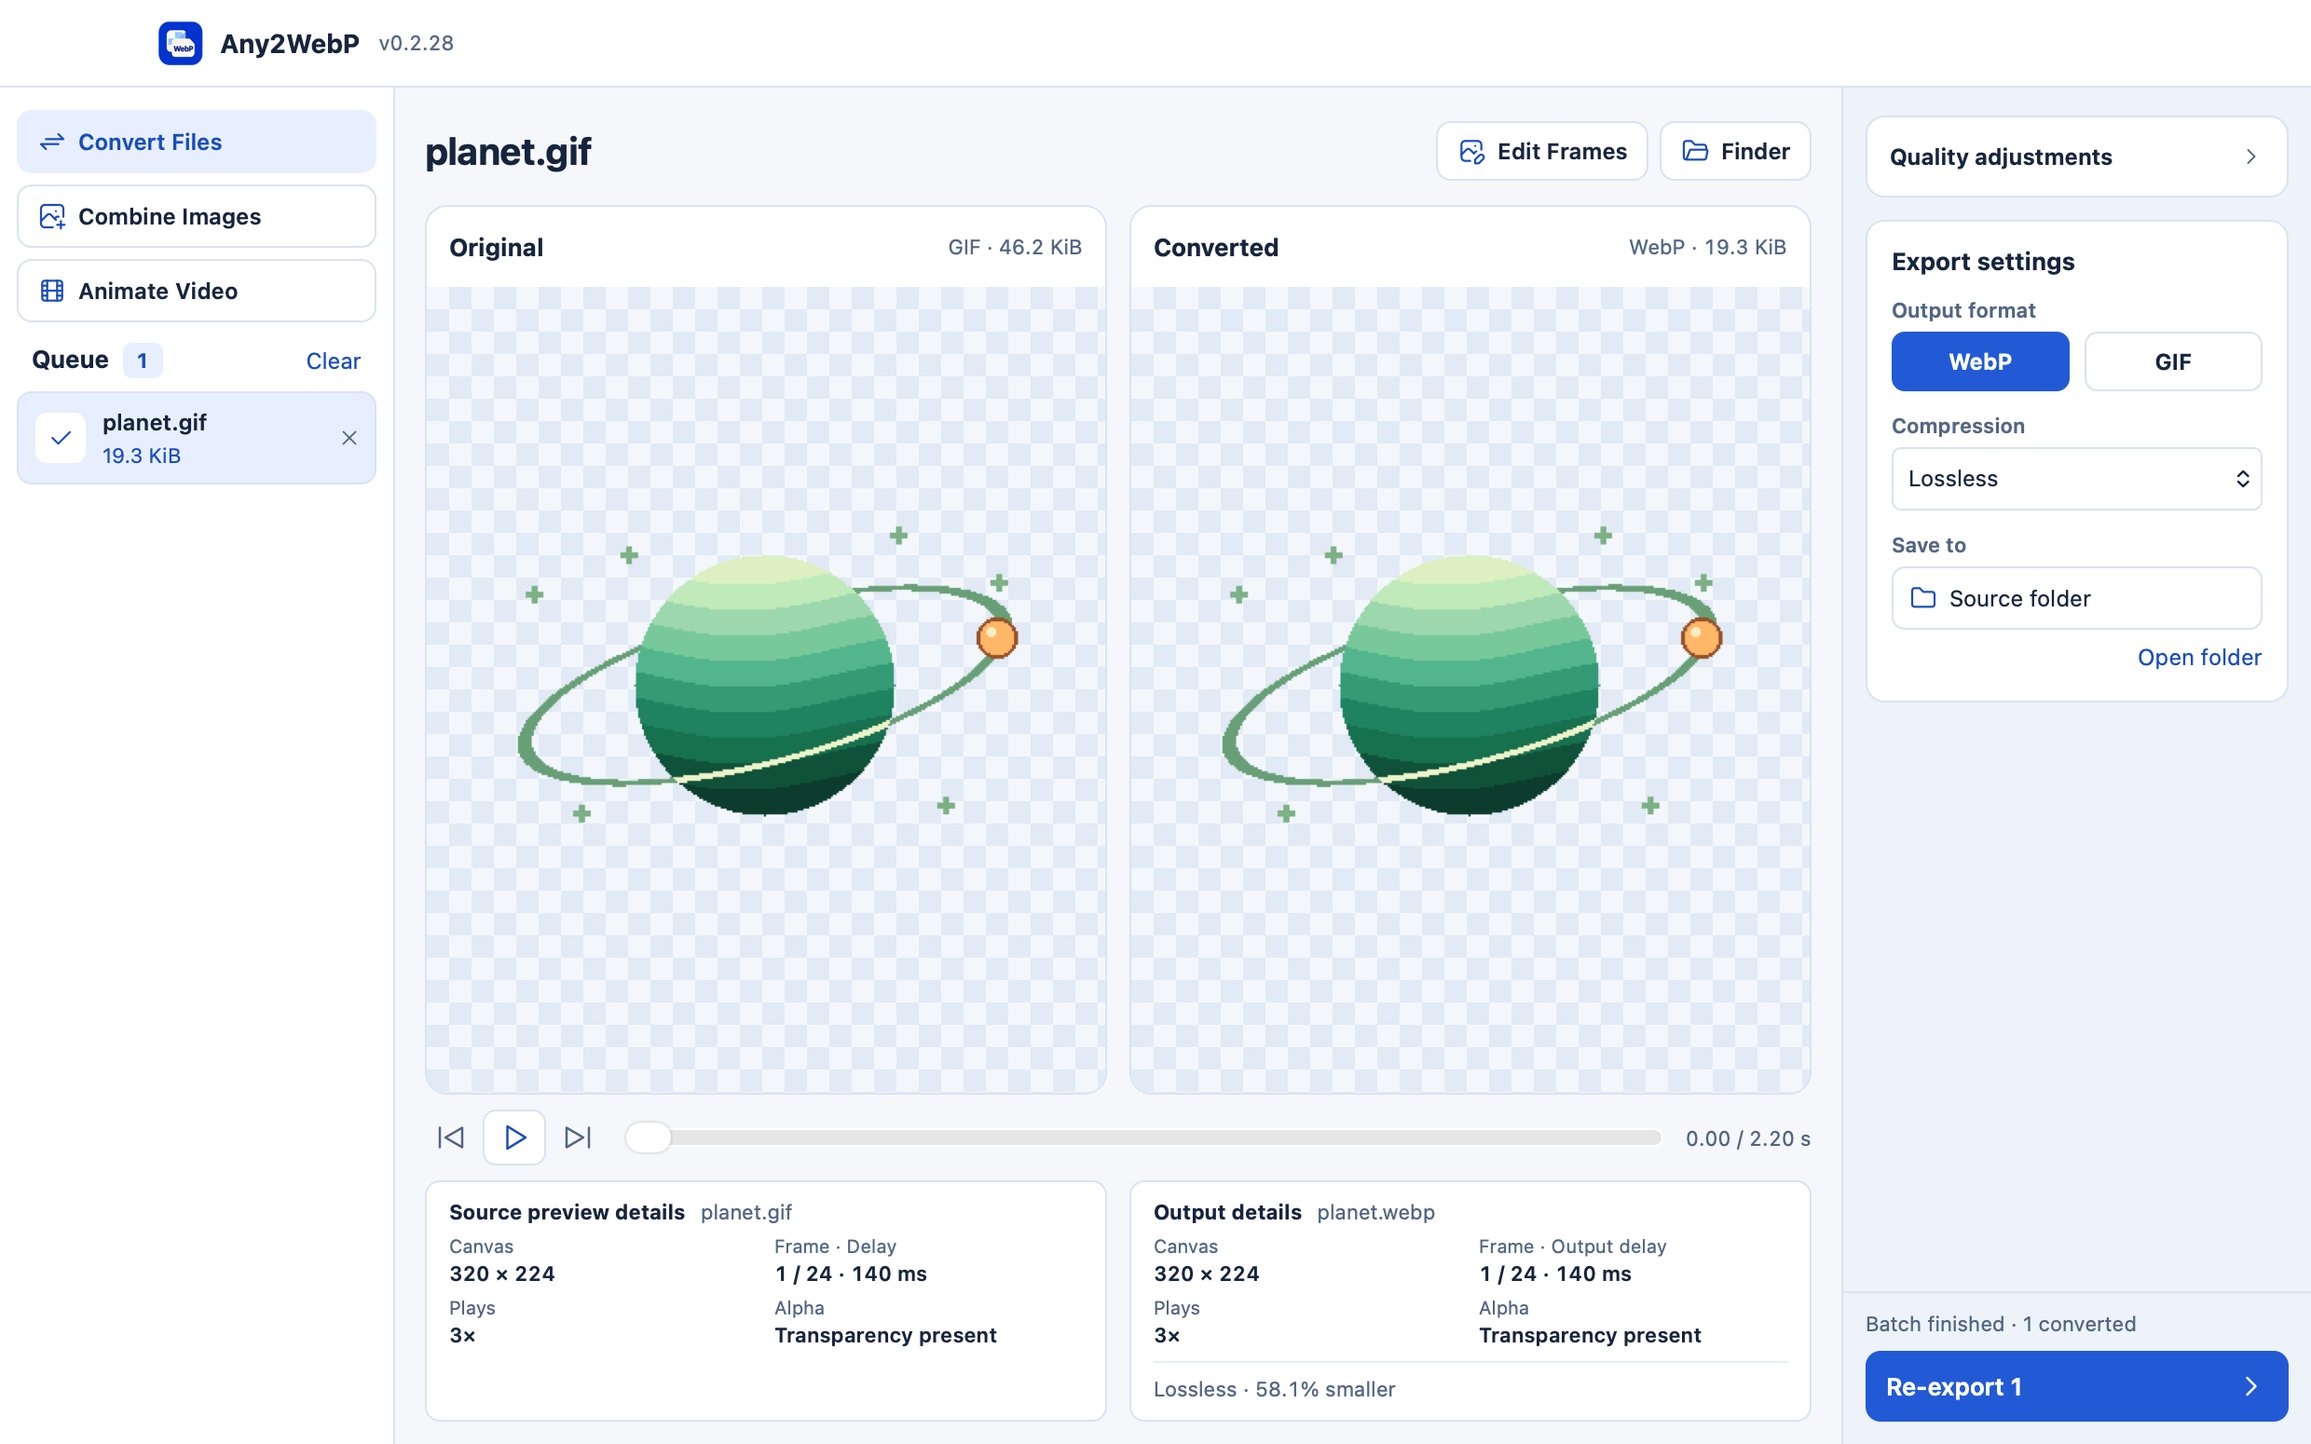
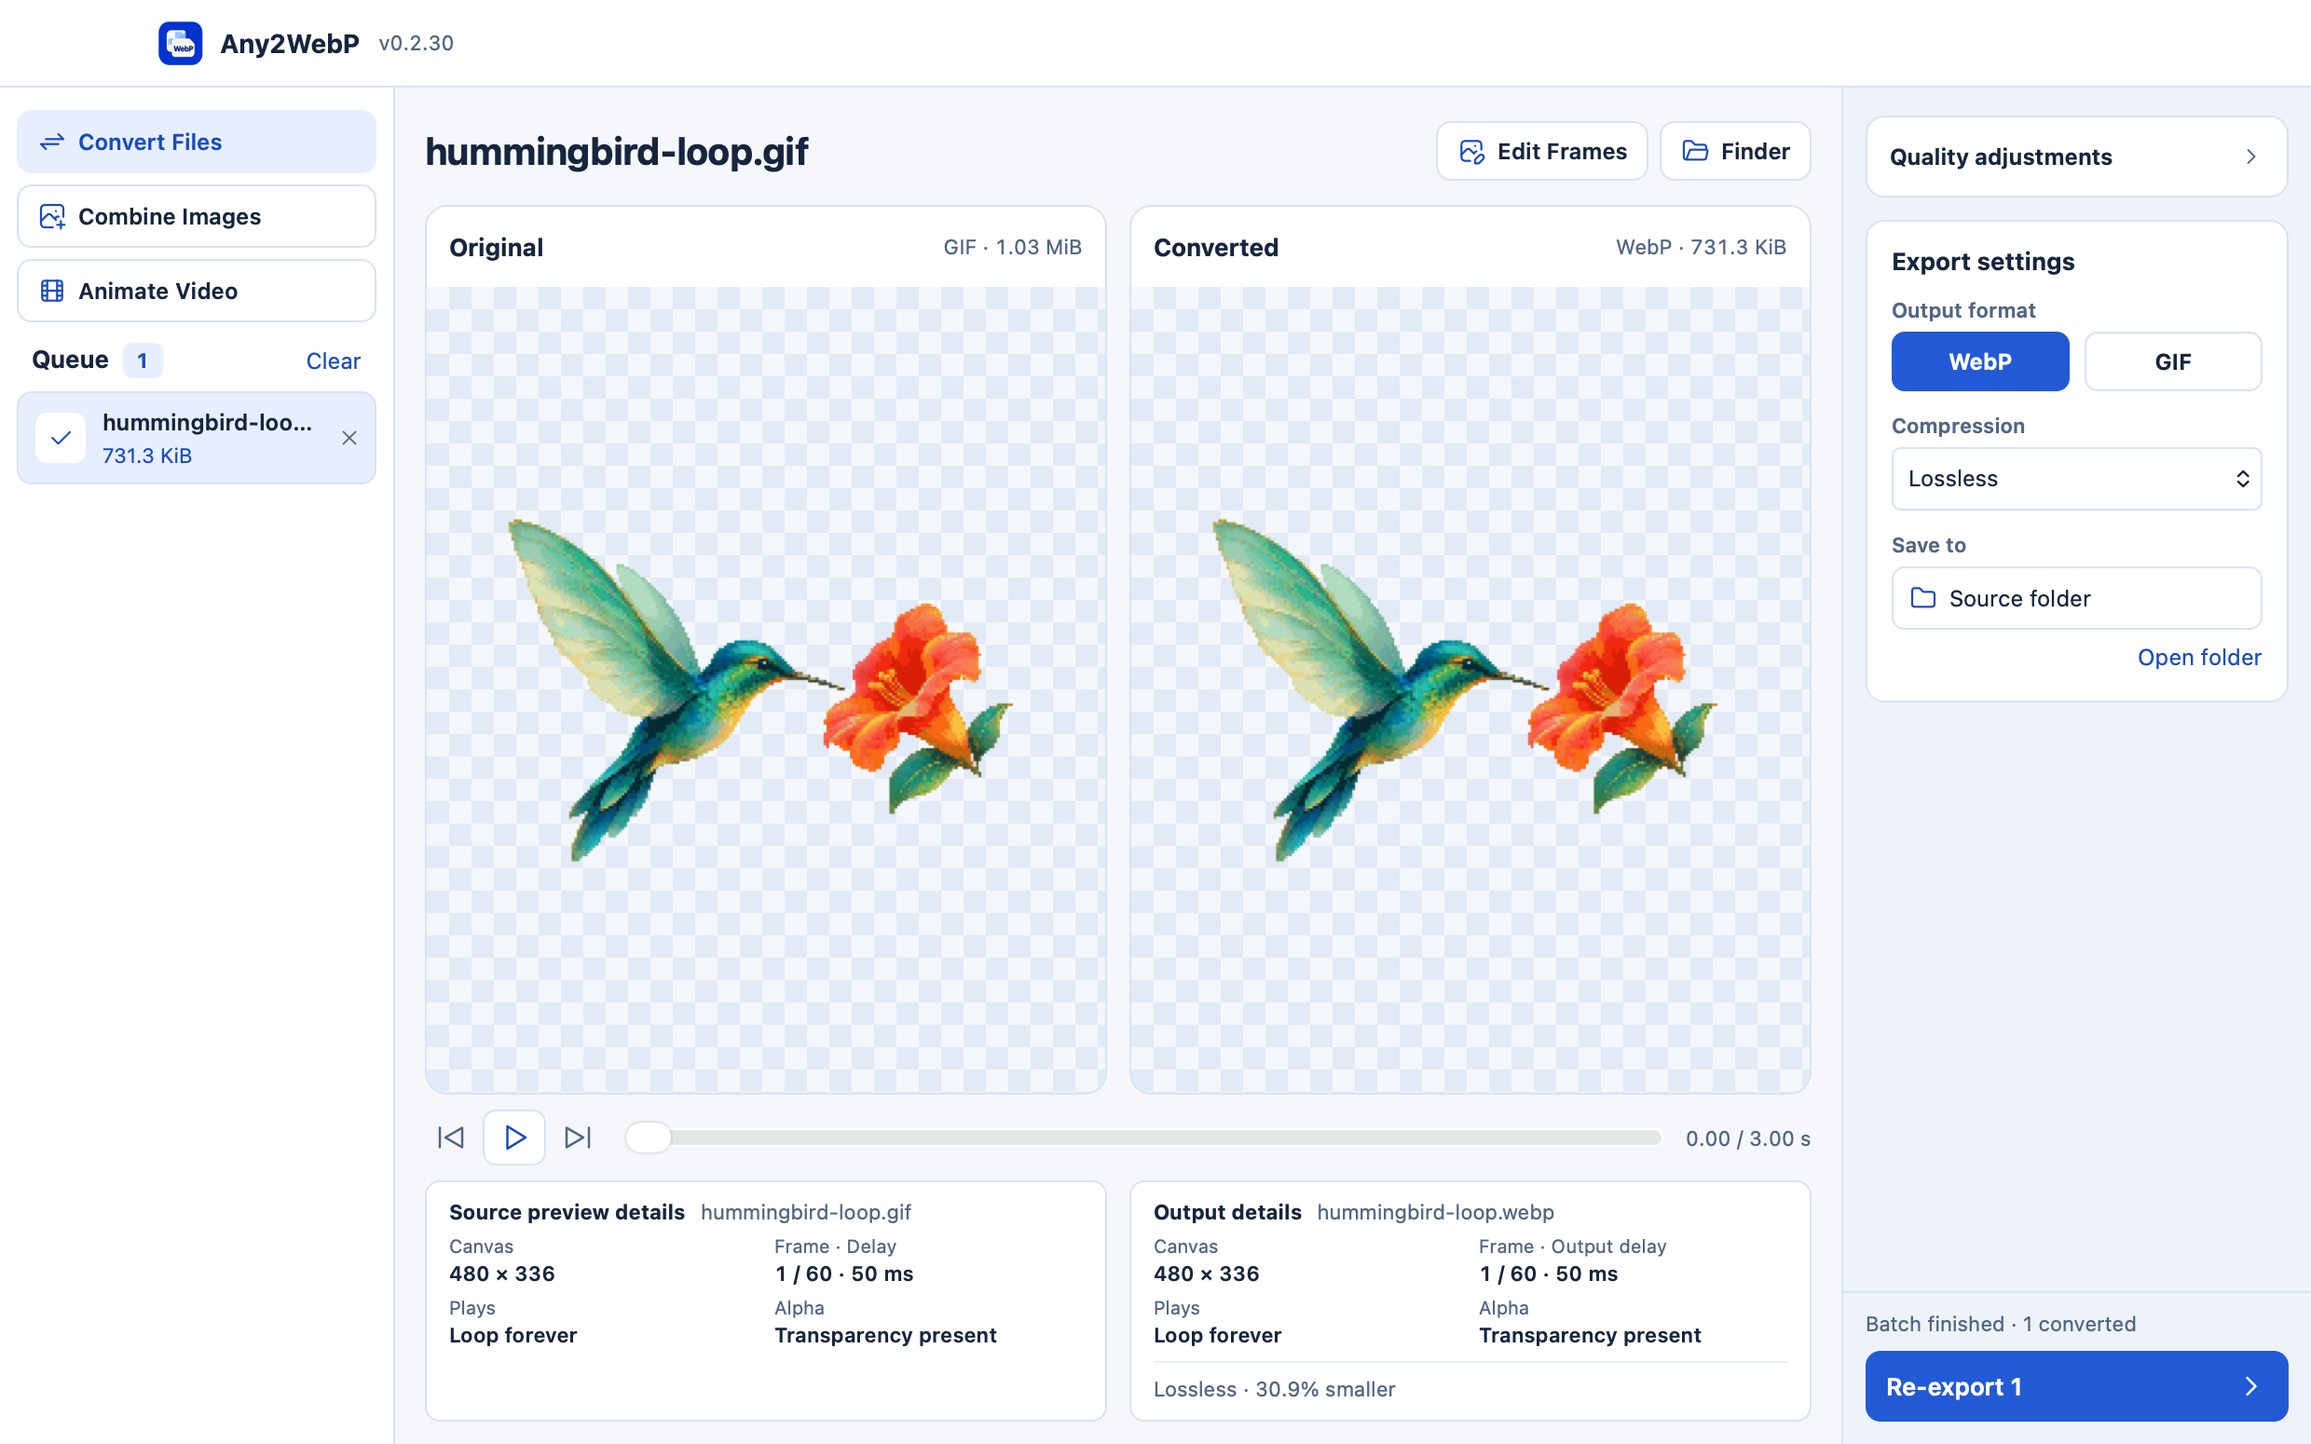
Compare hummingbird GIF and WebP in the public demo (#5)
* Compare hummingbird GIF and WebP on the website and README

* Refresh the three app screenshots with the hummingbird demo

* Use the exact screenshot export for the hummingbird comparison

---------

diff --git a/website/style.css b/website/style.css
@@ -54,6 +54,7 @@ h1 span { display: block; margin-top: 3px; color: var(--accent); }
 .source { font-size: .95rem; font-weight: 620; text-underline-offset: 4px; text-decoration: none; }
 .requirements { margin-top: 13px; color: var(--muted); font-size: .88rem; }
 .hero-image img { border: 1px solid #bfcee8; border-radius: 15px; box-shadow: 0 18px 42px #293d6826; }
+.hero-image figcaption { display: block; padding: 8px 2px 0; color: var(--muted); font-size: .8rem; }
 
 .section { padding-top: 65px; }
 .section > h2, .install h2 { font-size: clamp(1.65rem, 3vw, 2.25rem); letter-spacing: -.035em; }
@@ -76,16 +77,20 @@ h1 span { display: block; margin-top: 3px; color: var(--accent); }
   background-image: conic-gradient(#e2eaf8 25%, transparent 0 50%, #e2eaf8 0 75%, transparent 0);
   background-size: 20px 20px;
 }
-.demo-image img { width: min(100%, 170px); }
+.demo-image img { width: 100%; }
 figcaption { display: flex; flex-wrap: wrap; align-items: center; justify-content: space-between; gap: 3px 10px; padding: 7px 10px; }
-figcaption span, .format-card .demo-note { font-size: .875rem; }
+figcaption a { font-weight: 700; text-underline-offset: 3px; }
+figcaption span, .format-card .demo-note, .format-card .demo-status { font-size: .875rem; }
 figcaption span { white-space: nowrap; color: var(--muted); }
 .format-card .demo-note { margin-top: 12px; }
+.demo-note strong { color: var(--accent); }
+.format-card .demo-status:empty { margin-top: 0; }
 .demo-play {
   margin-top: 12px; padding: 7px 11px; border: 1px solid #c6d5f0; border-radius: 7px;
   color: var(--accent); background: white; font: inherit; font-size: .93rem; font-weight: 650; cursor: pointer;
 }
-.demo-play:hover { background: #e8efff; }
+.demo-play:hover:not(:disabled) { background: #e8efff; }
+.demo-play:disabled { cursor: wait; opacity: .75; }
 .still-row { display: grid; grid-template-columns: 56px minmax(0, 1fr); gap: 16px; padding: 16px 0; border-bottom: 1px solid var(--line); }
 .still-row dt { font-weight: 740; color: var(--accent); }
 .still-row dd span { display: block; margin-top: 3px; color: var(--muted); }

diff --git a/website/demo.js b/website/demo.js
@@ -1,13 +1,41 @@
 const button = document.querySelector(".demo-play");
 const images = [...document.querySelectorAll("[data-motion]")];
-const poses = images.map(image => image.getAttribute("src"));
+const posters = images.map(image => image.getAttribute("src"));
+const status = document.querySelector(".demo-status");
+let downloads;
+let playingUrls = [];
 
 button.hidden = false;
-button.addEventListener("click", () => {
-  const playing = button.getAttribute("aria-pressed") === "false";
-  images.forEach((image, index) => {
-    image.src = playing ? image.dataset.motion : poses[index];
-  });
-  button.setAttribute("aria-pressed", String(playing));
-  button.textContent = playing ? button.dataset.stop : button.dataset.play;
+button.addEventListener("click", async () => {
+  if (playingUrls.length) {
+    images.forEach((image, index) => { image.src = posters[index]; });
+    playingUrls.forEach(url => URL.revokeObjectURL(url));
+    playingUrls = [];
+    button.setAttribute("aria-pressed", "false");
+    button.textContent = button.dataset.play;
+    return;
+  }
+
+  status.textContent = "";
+  button.disabled = true;
+  button.textContent = button.dataset.loading;
+  try {
+    // Keep both posters visible until the two animations are ready to start.
+    downloads ??= Promise.all(images.map(async image => {
+      const response = await fetch(image.dataset.motion);
+      if (!response.ok) throw new Error("Animation download failed");
+      return response.blob();
+    }));
+    const blobs = await downloads;
+    playingUrls = blobs.map(blob => URL.createObjectURL(blob));
+    images.forEach((image, index) => { image.src = playingUrls[index]; });
+    button.setAttribute("aria-pressed", "true");
+    button.textContent = button.dataset.stop;
+  } catch {
+    downloads = undefined;
+    status.textContent = button.dataset.error;
+    button.textContent = button.dataset.play;
+  } finally {
+    button.disabled = false;
+  }
 });

diff --git a/website/README.md b/website/README.md
@@ -35,9 +35,9 @@ python3 -m http.server 8000 --bind 127.0.0.1 --directory dist/website
 
 | 素材 | 可复用文件 | 规格 |
 | --- | --- | --- |
-| 应用截图 | [简体中文](../docs/assets/any2webp-zh-CN.png) · [English](../docs/assets/any2webp-en.png) · [日本語](../docs/assets/any2webp-ja.png) | 2480 × 1550 PNG，展示三个工作入口和同步预览。 |
+| 应用截图 | [简体中文](../docs/assets/any2webp-zh-CN.png) · [English](../docs/assets/any2webp-en.png) · [日本語](../docs/assets/any2webp-ja.png) | 2480 × 1550 PNG，展示 Any2WebP v0.2.30 的无损转换。以青羽蜂鸟 GIF（1,083,393 字节）为源，导出的 WebP 为 748,866 字节。 |
 | 产品图标 | [Any2WebP 图标](../src-tauri/icons/icon.png) | 1024 × 1024 PNG。 |
-| 动图体积对照 | [GIF 原图](../engine/samples/planet.gif) · [无损 WebP 成品](../docs/assets/planet.webp) | 320 × 224，24 帧，保留透明度、帧延时和 3 次播放。GIF 47,269 字节，WebP 19,806 字节。该示例体积减少 58.1%。 |
+| 动图体积对照 | [青羽蜂鸟 GIF](../docs/assets/hummingbird-loop.gif) · [无损 WebP](../docs/assets/hummingbird-loop.webp) | 使用截图中的文件。480 × 336，60 帧，3 秒无限循环，保留透明背景。GIF 1,083,393 字节，WebP 748,866 字节，体积减小 30.9%。 |
 | 规格说明 | Apple Silicon，macOS 26.0 或更新版本 | 视频需要 FFmpeg 和 ffprobe。图片转换可直接使用。 |
 | 开源说明 | [MIT 许可证](../LICENSE) · [第三方许可](../NOTICE.md) | 下载与源代码均指向官方 GitHub 仓库。 |
 
@@ -45,5 +45,5 @@ python3 -m http.server 8000 --bind 127.0.0.1 --directory dist/website
 
 - 中文标题写「Any2WebP｜免费开源的 macOS WebP 图片转换软件」。
 - 中文描述写「在 Mac 上将 JPG、PNG、GIF 和视频片段批量转成 WebP 或 GIF。支持多图合成、视频剪切、动图帧编辑、目标体积和同步预览。」
-- 动图示例两侧共用尺寸并显示实际体积。页面用「此示例减少 58.1%」说明结果，具体压缩率随素材和设置变化。
+- 构建时从两份动图文件读取字节数，计算体积差值及百分比。替换素材时同步更新三语 README 里的数值和首帧海报。
 - 首屏使用对应语言的静态应用截图。动图对照放在后面的格式说明区，提供停播或按需播放入口。

diff --git a/README.ja.md b/README.ja.md
@@ -6,7 +6,9 @@
 
 [macOS 版をダウンロード](https://ixiehao.github.io/Any2WebP/ja/download/) · [公式サイト](https://ixiehao.github.io/Any2WebP/ja/) · [MIT ライセンス](LICENSE)
 
-![Any2WebP で変換前の GIF と WebP の書き出し結果を比較](docs/assets/any2webp-ja.png)
+![Any2WebP で青緑のハチドリの GIF と可逆 WebP の書き出し結果を比較](docs/assets/any2webp-ja.png)
+
+*下の比較には、画面にある GIF と可逆 WebP を使っています。*
 
 ## 3 ステップで変換
 
@@ -32,7 +34,13 @@
 | 容量 | 可逆・非可逆圧縮が選べ、容量を抑えやすい | 単純な図に向く。複雑な画像では容量や色の段差が目立つことがある |
 | 主な用途 | ウェブ向け、透過素材、動画の一部 | GIF のみ対応するサービスや従来のソフトウェア |
 
-[透過 GIF](engine/samples/planet.gif) の **46.2 KiB** に対し、[可逆圧縮の WebP](docs/assets/planet.webp) は **19.3 KiB** で **58.1%** 小さくなりました。この例では、24 フレーム、表示時間、透明度、3 回再生を保持しています。結果は画像や設定によって変わります。[Google の WebP FAQ](https://developers.google.com/speed/webp/faq)
+Any2WebP で **「青緑のハチドリ」** の GIF を可逆 WebP に書き出し、60 フレーム、透明な背景、3 秒のループを維持しています。
+
+| [GIF · 1.03 MiB](docs/assets/hummingbird-loop.gif) | [WebP · 731.3 KiB](docs/assets/hummingbird-loop.webp) |
+| --- | --- |
+| <img src="docs/assets/hummingbird-loop.gif" width="230" alt="青緑のハチドリとコーラルオレンジの花、GIF 版"> | <img src="docs/assets/hummingbird-loop.webp" width="230" alt="青緑のハチドリとコーラルオレンジの花、WebP 版"> |
+
+この例の WebP は GIF より **326.7 KiB（30.9%）** 小さくなりました。[公式サイトで比較を再生](https://ixiehao.github.io/Any2WebP/ja/#formats) · [Google の WebP FAQ](https://developers.google.com/speed/webp/faq)
 
 ## 静止画の形式を選ぶ
 

diff --git a/README.md b/README.md
@@ -6,7 +6,9 @@ English · [简体中文](README.zh-CN.md) · [日本語](README.ja.md)
 
 [Download for macOS](https://ixiehao.github.io/Any2WebP/download/) · [Website](https://ixiehao.github.io/Any2WebP/) · [MIT license](LICENSE)
 
-![Any2WebP comparing the original GIF and exported WebP side by side](docs/assets/any2webp-en.png)
+![Any2WebP comparing the Teal Hummingbird GIF and its lossless WebP export side by side](docs/assets/any2webp-en.png)
+
+*The GIF and lossless WebP shown here are the files used in the comparison below.*
 
 ## Convert in three steps
 
@@ -32,7 +34,13 @@ Conversion runs locally, and WebP encoding uses the bundled libwebp. Large anima
 | File size | Lossy and lossless options, often smaller | Works well for simple graphics, but complex scenes can take more space or show banding |
 | Good for | Web animations, transparent graphics, and video clips | GIF-only platforms and older software |
 
-The included [transparent GIF](engine/samples/planet.gif) is **46.2 KiB**. Its [lossless WebP export](docs/assets/planet.webp) is **19.3 KiB**, a **58.1%** reduction. Both have 24 frames, the same delays, transparency, and three plays. The result depends on the image and settings. [Google’s animated WebP FAQ](https://developers.google.com/speed/webp/faq)
+Any2WebP exported **Teal Hummingbird** from GIF to lossless WebP, preserving its 60 frames, transparent background, and 3-second loop.
+
+| [GIF · 1.03 MiB](docs/assets/hummingbird-loop.gif) | [WebP · 731.3 KiB](docs/assets/hummingbird-loop.webp) |
+| --- | --- |
+| <img src="docs/assets/hummingbird-loop.gif" width="230" alt="Teal hummingbird and coral-orange flower, GIF"> | <img src="docs/assets/hummingbird-loop.webp" width="230" alt="Teal hummingbird and coral-orange flower, WebP"> |
+
+The WebP export is **326.7 KiB (30.9%) smaller** in this example. [Play the comparison on the website](https://ixiehao.github.io/Any2WebP/#formats) · [Google’s animated WebP FAQ](https://developers.google.com/speed/webp/faq)
 
 ## Still images: WebP, PNG, or JPG
 

diff --git a/README.zh-CN.md b/README.zh-CN.md
@@ -6,7 +6,9 @@
 
 [下载 macOS 版](https://ixiehao.github.io/Any2WebP/zh/download/) · [官网](https://ixiehao.github.io/Any2WebP/zh/) · [MIT 许可证](LICENSE)
 
-![Any2WebP 同步对比 GIF 原图与 WebP 成品](docs/assets/any2webp-zh-CN.png)
+![Any2WebP 同步对比青羽蜂鸟的 GIF 原图与无损 WebP 成品](docs/assets/any2webp-zh-CN.png)
+
+*下方对比使用截图中的 GIF 原图和无损 WebP 成品。*
 
 ## 三步完成转换
 
@@ -32,7 +34,13 @@
 | 体积 | 支持有损和无损，通常更省体积 | 简单图形已经够用，复杂画面可能更大或出现色阶 |
 | 适合 | 网页动图、透明贴图、视频片段 | 只收 GIF 的平台、旧软件和兼容性优先的场合 |
 
-同一段 [透明 GIF](engine/samples/planet.gif) 约 **46.2 KiB**，无损转成 [WebP](docs/assets/planet.webp) 后约 **19.3 KiB**，减少 **58.1%**。两者均为 24 帧，保留帧延时、透明度和 3 次播放。这是单个示例，实际体积取决于素材和设置。[Google WebP 动图说明](https://developers.google.com/speed/webp/faq)
+Any2WebP 将 **「青羽蜂鸟」** GIF 无损导出为 WebP，保留 60 帧、透明背景和 3 秒无限循环。
+
+| [GIF · 1.03 MiB](docs/assets/hummingbird-loop.gif) | [WebP · 731.3 KiB](docs/assets/hummingbird-loop.webp) |
+| --- | --- |
+| <img src="docs/assets/hummingbird-loop.gif" width="230" alt="青羽蜂鸟与珊瑚橙花，GIF 版"> | <img src="docs/assets/hummingbird-loop.webp" width="230" alt="青羽蜂鸟与珊瑚橙花，WebP 版"> |
+
+本例的 WebP 成品比 GIF 小 **326.7 KiB（30.9%）**。[在官网播放对比](https://ixiehao.github.io/Any2WebP/zh/#formats) · [Google WebP 动图说明](https://developers.google.com/speed/webp/faq)
 
 ## 静图怎么选：WebP、PNG 和 JPG
 

diff --git a/NOTICE.md b/NOTICE.md
@@ -11,4 +11,4 @@ Any2WebP source is available under the [MIT license](LICENSE). The included libr
 | FFmpeg and ffprobe | External video tools detected locally | Installed separately through Homebrew or by the user. [FFmpeg licensing](https://ffmpeg.org/legal.html) |
 | dmgbuild, ds-store, and mac-alias | Build-time DMG tools | Used only to build the DMG. See the versions in [dmg-requirements.txt](Scripts/dmg-requirements.txt). |
 
-The [bundled component notices](docs/THIRD-PARTY-NOTICES.txt) contain the native library and icon acknowledgments. The app icon and the synthetic animation at `engine/samples/planet.gif` are Any2WebP project assets. The sample contains no user media.
+The [bundled component notices](docs/THIRD-PARTY-NOTICES.txt) contain the native library and icon acknowledgments. The app icon, the synthetic animation at `engine/samples/planet.gif`, and the Teal Hummingbird demo are Any2WebP project assets.
